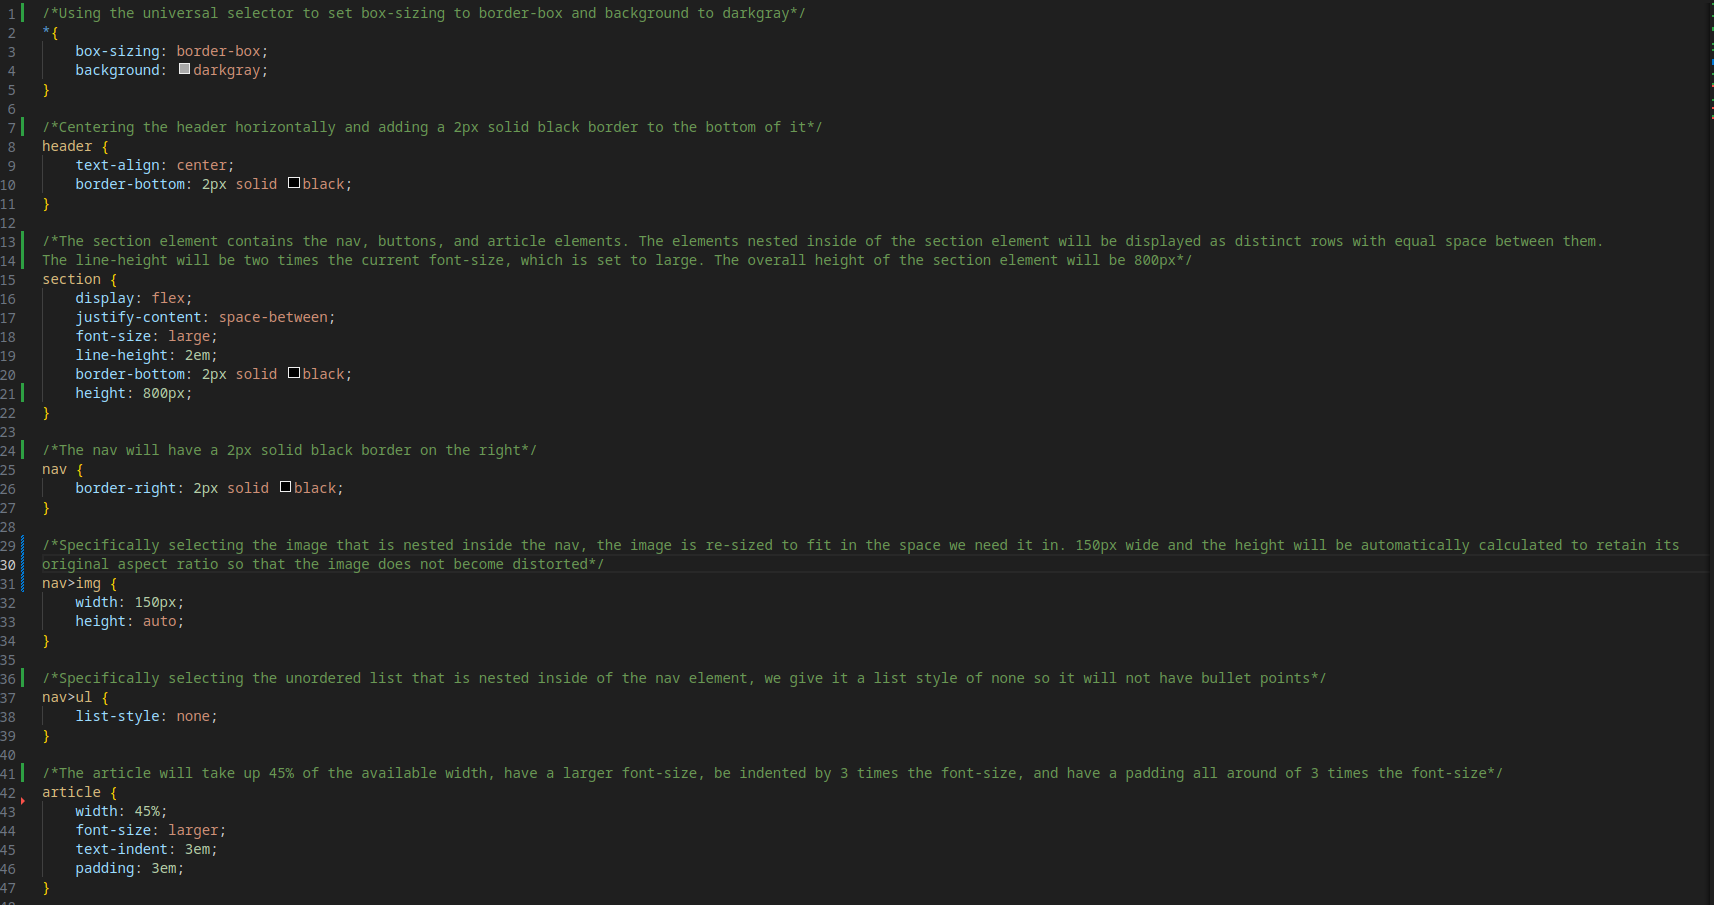
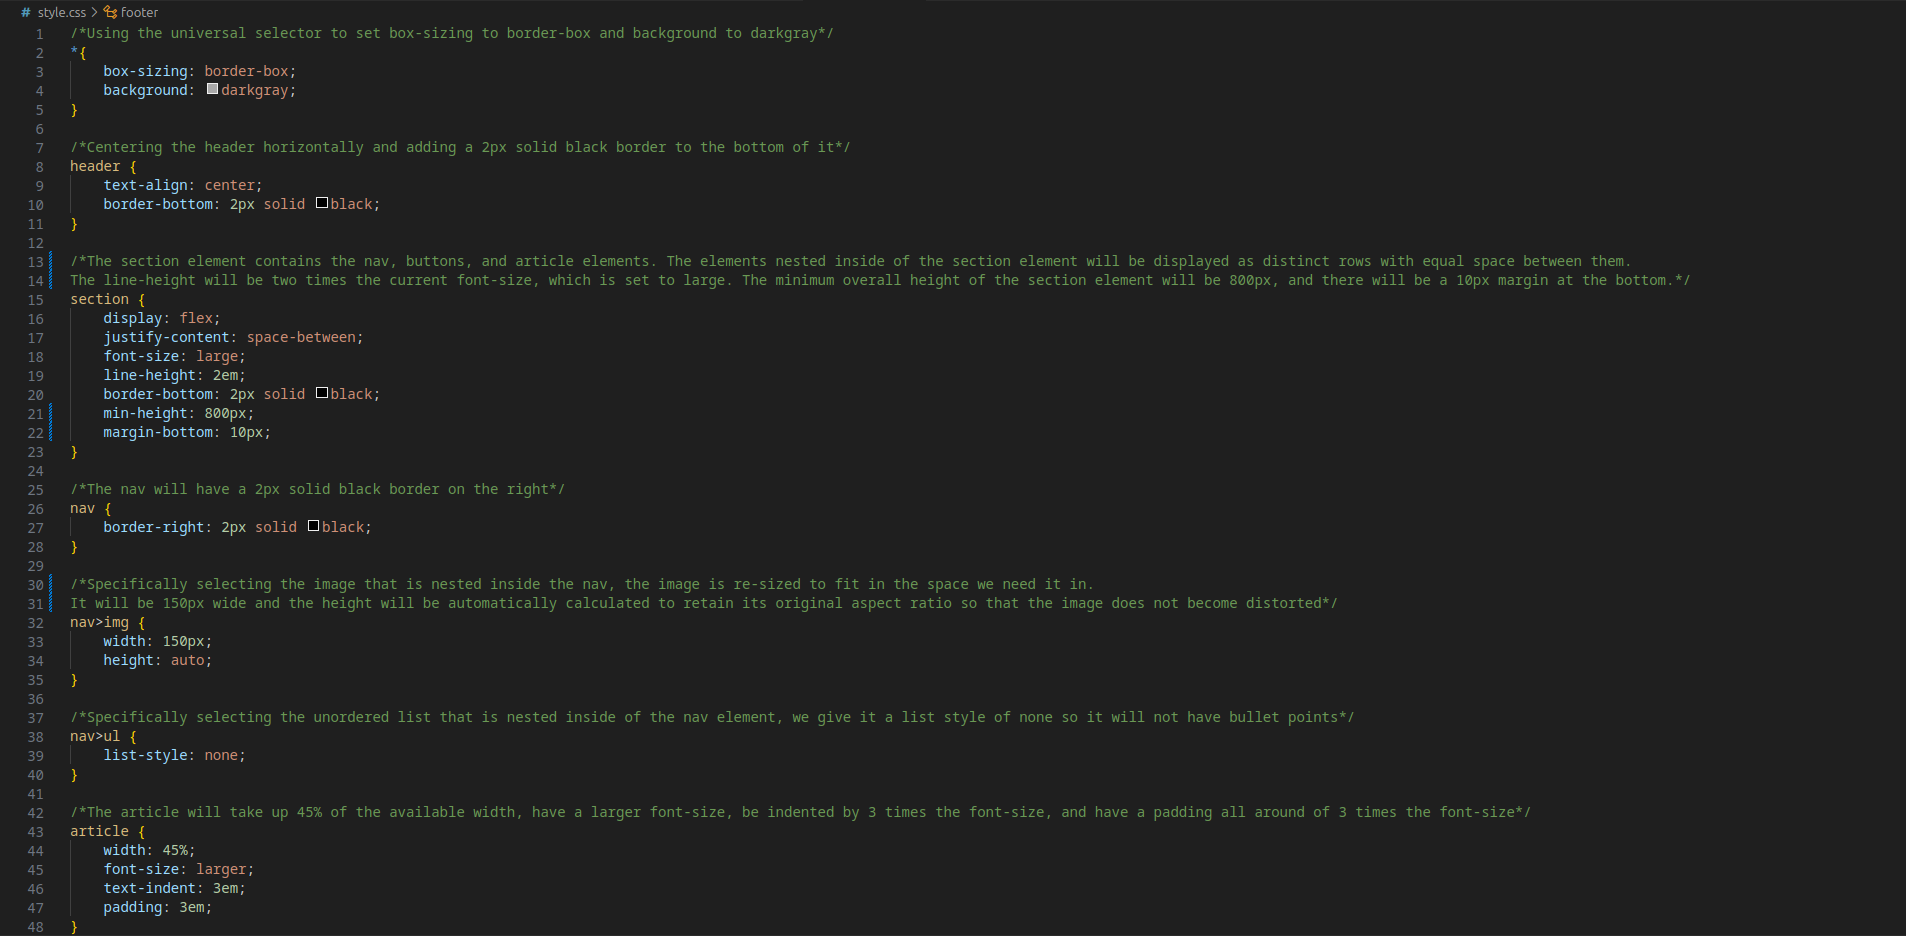
Finish Hyperlinks, edit CSS, Create new images, fix typos

Changed region(s): [[0.0, 0.0, 0.9586, 1.0]]

diff --git a/js.html b/js.html
@@ -34,6 +34,10 @@
     <article>
         <ul>
             <li>JS stands for JavaScript.</li>
+            <li>In a JavaScript document, the content tells the web browser how to respond to specific interactions from the end user.</li>
+            <li>The only JavaScript code that is currently used on this site is on line 84 of the HTML source code for the Home Page. A screenshot of line 84 is provided below.</li>
+            <li>JavaScript comments are left by the author to briefly explain what the code does by enclosing the comment in // and // tags. There are no JavaScript comments used here because the JavaScript is written into the HTML document and not linked externally like the CSS was, due to the fact that there was no extensive amount of JavaScript used. The small amount of JavaScript used to build this site was intentional to keep the concepts basic. In practice, Javascript code can easily take up numerous pages, which is why it is best practice to create a dedicated Javascript file and provide a link to it in the HTML as we did with the CSS file. Externally linking these files is a best practice because doing so will allow your HTML to be more compact and easier to read through, both for yourself and for anyone else that may be reading your code in the future.</li>
+            <li>The image below is the JavaScript source code that was used to add functionality to the home page of this site. All it does is tell the web browser to take the user to a specified page if they click the button.  Technically, the hyperlinks used throughout this site (such as the links in the nav menu) also use click events to redirect the user to another page, but they are built into HTML in such a way that no JavaScript commands are needed, just a url. The button element is a little different because it takes an OnClick attribute, which is purely a JavaScript attribute. If you disable the use of JavaScript in your web browser, these pink buttons will not take you anywhere when you click them.</li>    
         </ul>
     </article>
     <!--A button to take the user to the next page-->

diff --git a/about.html b/about.html
@@ -31,7 +31,7 @@
     <!--A button to take the user to the previous page-->
     <button onclick="location.href='index.html'">Prev: Home</button>
     <!--A detailed write-up about a certain topic-->
-    <article>This site is intended to educate people on how web pages work by illustrating the basic building blocks and how they work together to deliver the final product.<br>By reading each of the proceeding pages: <a href="">HTML</a>, <a href="">CSS</a>, and <a href="">JS</a>, the reader will gain an understanding of how each of these three building blocks contributes in its own unique way to the creation of the <a href="index.html">Home Page</a> of this site.<br>On each proceeding page, a short introduction is given to explain the function of the relavent building block, followed by a color-coded example of the <a href="">source code</a> that was used to create the <a href="index.html">Home Page</a>, with the code regarding the relavent building block highlighted.</article>
+    <article>This site is intended to educate people on how web pages work by illustrating the basic building blocks and how they work together to deliver the final product.<br>By reading each of the proceeding pages: <a href="html.html">HTML</a>, <a href="css.html">CSS</a>, and <a href="js.html">JS</a>, the reader will gain an understanding of how each of these three building blocks contributes in its own unique way to the creation of the <a href="index.html">Home Page</a> of this site.<br>On each proceeding page, a short introduction is given to explain the function of the relavent building block, followed by a color-coded example of the <a href="https://en.wikipedia.org/wiki/Source_code">source code</a> that was used to create the <a href="index.html">Home Page</a>, with the code regarding the relavent building block highlighted.</article>
     <!--A button to take the user to the next page-->
     <button onclick="location.href='html.html'">Next: HTML</button>
     </section>

diff --git a/index.html b/index.html
@@ -29,7 +29,12 @@
         </ul>
     </nav>
 		<!--A detailed write-up about a certain topic-->
-        <article>The internet is pretty cool. It is made up of interconnected <a href="">computing devices</a> that contain really tiny <a href="">compressed</a><a href="">bits</a> of information that can move really fast. Upon request, a <a href="">binary</a> representation of this web page was shared with yor computing device via the <a href="">HyperText Transfer Protocol</a>. Upon arrival, your computing device's <a href="">web browser</a>, using a stanardized <a href="">decoding scheme</a>, translated all of those bits of information into a <a href="">human readable format</a>.</article>
+        <article>The internet is pretty cool. It is made up of interconnected <a href="https://en.wikipedia.org/wiki/Computer">computing devices</a> that contain really tiny 
+            <a href="https://en.wikipedia.org/wiki/Compress_(software)">compressed</a> <a href="https://en.wikipedia.org/wiki/Bit">bits</a> of information that can move really fast. Upon request, a 
+            <a href="https://en.wikipedia.org/wiki/Binary_code">binary</a> representation of this web page was shared with yor computing device via the 
+            <a href="https://en.wikipedia.org/wiki/HTTP">HyperText Transfer Protocol</a>. Upon arrival, your computing device's <a href="https://en.wikipedia.org/wiki/Web_browser">web browser</a>, using a stanardized 
+            <a href="https://en.wikipedia.org/wiki/Codec">decoding scheme</a>, translated all of those bits of information into a 
+            <a href="https://en.wikipedia.org/wiki/Human-readable_medium_and_data">human readable format</a>.</article>
         <!--A button to take the user to the next page-->
         <button onclick="location.href='about.html'">About This Site</button>
     </section>

diff --git a/style.css b/style.css
@@ -10,14 +10,16 @@ header {
     border-bottom: 2px solid black;
 }
 
-/*The section element contains the nav, buttons, and article elements. The elements nested inside of the section element will be displayed as distinct rows with equal space between them. The line-height will be two times the current font-size, which is set to large. The overall height of the section element will be 800px*/
+/*The section element contains the nav, buttons, and article elements. The elements nested inside of the section element will be displayed as distinct rows with equal space between them. 
+The line-height will be two times the current font-size, which is set to large. The minimum overall height of the section element will be 800px, and there will be a 10px margin at the bottom.*/
 section {
     display: flex;
     justify-content: space-between;
     font-size: large;
     line-height: 2em;
     border-bottom: 2px solid black;
-    height: 800px;
+    min-height: 800px;
+    margin-bottom: 10px;
 }
 
 /*The nav will have a 2px solid black border on the right*/
@@ -25,7 +27,8 @@ nav {
     border-right: 2px solid black;
 }
 
-/*Specifically selecting the image that is nested inside the nav, the image is re-sized to fit in the space we need it in. 150px wide and the height will be automatically calculated to retain its original aspect ratio so that the image does not become distorted*/
+/*Specifically selecting the image that is nested inside the nav, the image is re-sized to fit in the space we need it in. 
+It will be 150px wide and the height will be automatically calculated to retain its original aspect ratio so that the image does not become distorted*/
 nav>img {
     width: 150px;
     height: auto;
@@ -57,4 +60,3 @@ footer {
     display: fixed;
     text-align: center;
 }
-

diff --git a/html.html b/html.html
@@ -34,6 +34,10 @@
     <article>
         <ul>
             <li>HTML stands for HyperText Markup Language.</li>
+            <li>In an HTML document, the content that will be displayed to the end user is contained between a set of &lt;body&gt; &lt;/body&gt; tags.</li>
+            <li>Any additional data that is only meant to tell the web browser how to interpret and render the content of the page is NOT displayed to the end user.</li>
+            <li>HTML comments are left by the author to briefly explain what the code does by enclosing the comment in &lt;!-- and --&gt; tags.</li>
+            <li>The image below is the source code that was used to create the home page of this site. It is thoroughly commented so that readers can get an idea of what the code does. See if you can get an understanding of what the code does by looking at the source code and then viewing the <a href="index.html">Home Page</a> to see it in action.</li>           
         </ul>
     </article>
     <!--A button to take the user to the next page-->

diff --git a/css.html b/css.html
@@ -34,6 +34,10 @@
     <article>
         <ul>
             <li>CSS stands for Cascading Style Sheets.</li>
+            <li>In a CSS document, the content tells the web browser how to apply styling to the data given in the HTML document.</li>
+            <li>The CSS document is referenced in the HTML document on line 8 of the HTML source code for the Home Page.</li>
+            <li>CSS comments are left by the author to briefly explain what the code does by enclosing the comment in /* and */ tags.</li>
+            <li>The image below is the CSS source code that was used to style the home page of this site. It is thoroughly commented so that readers can get an idea of what the code does. See if you can get an understanding of what the code does by looking at the source code and then viewing the <a href="index.html">Home Page</a> to see it in action.</li>    
         </ul>
     </article>
     <!--A button to take the user to the next page-->
